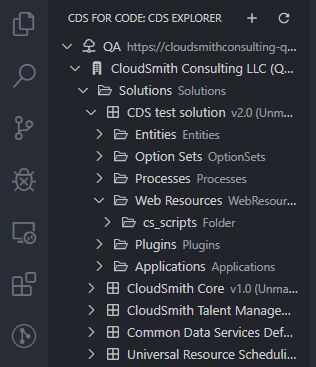
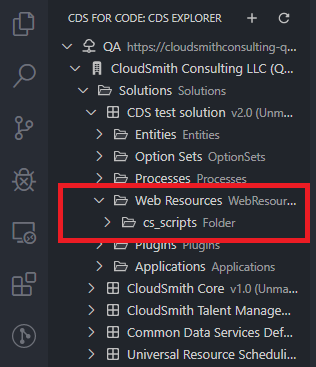
fix up screenshots with callouts

Changed region(s): [[0.1709, 0.4796, 0.9968, 0.6594]]

diff --git a/docs/howto/Plugins.md b/docs/howto/Plugins.md
@@ -18,7 +18,7 @@
 
 ### Create a new plugin from scratch using Visual Studio
 
-There is documentation [here about creating and registering plugins in Visual Studio](https://docs.microsoft.com/en-us/powerapps/developer/common-data-service/tutorial-write-plug-in) for use in CDS.
+There is documentation [here about creating and registering plugins in Visual Studio](https://docs.microsoft.com/en-us/powerapps/developer/common-data-service/write-plug-in) for use in CDS.
 
 Coming soon: instructions using the .NET Core CLI
 
